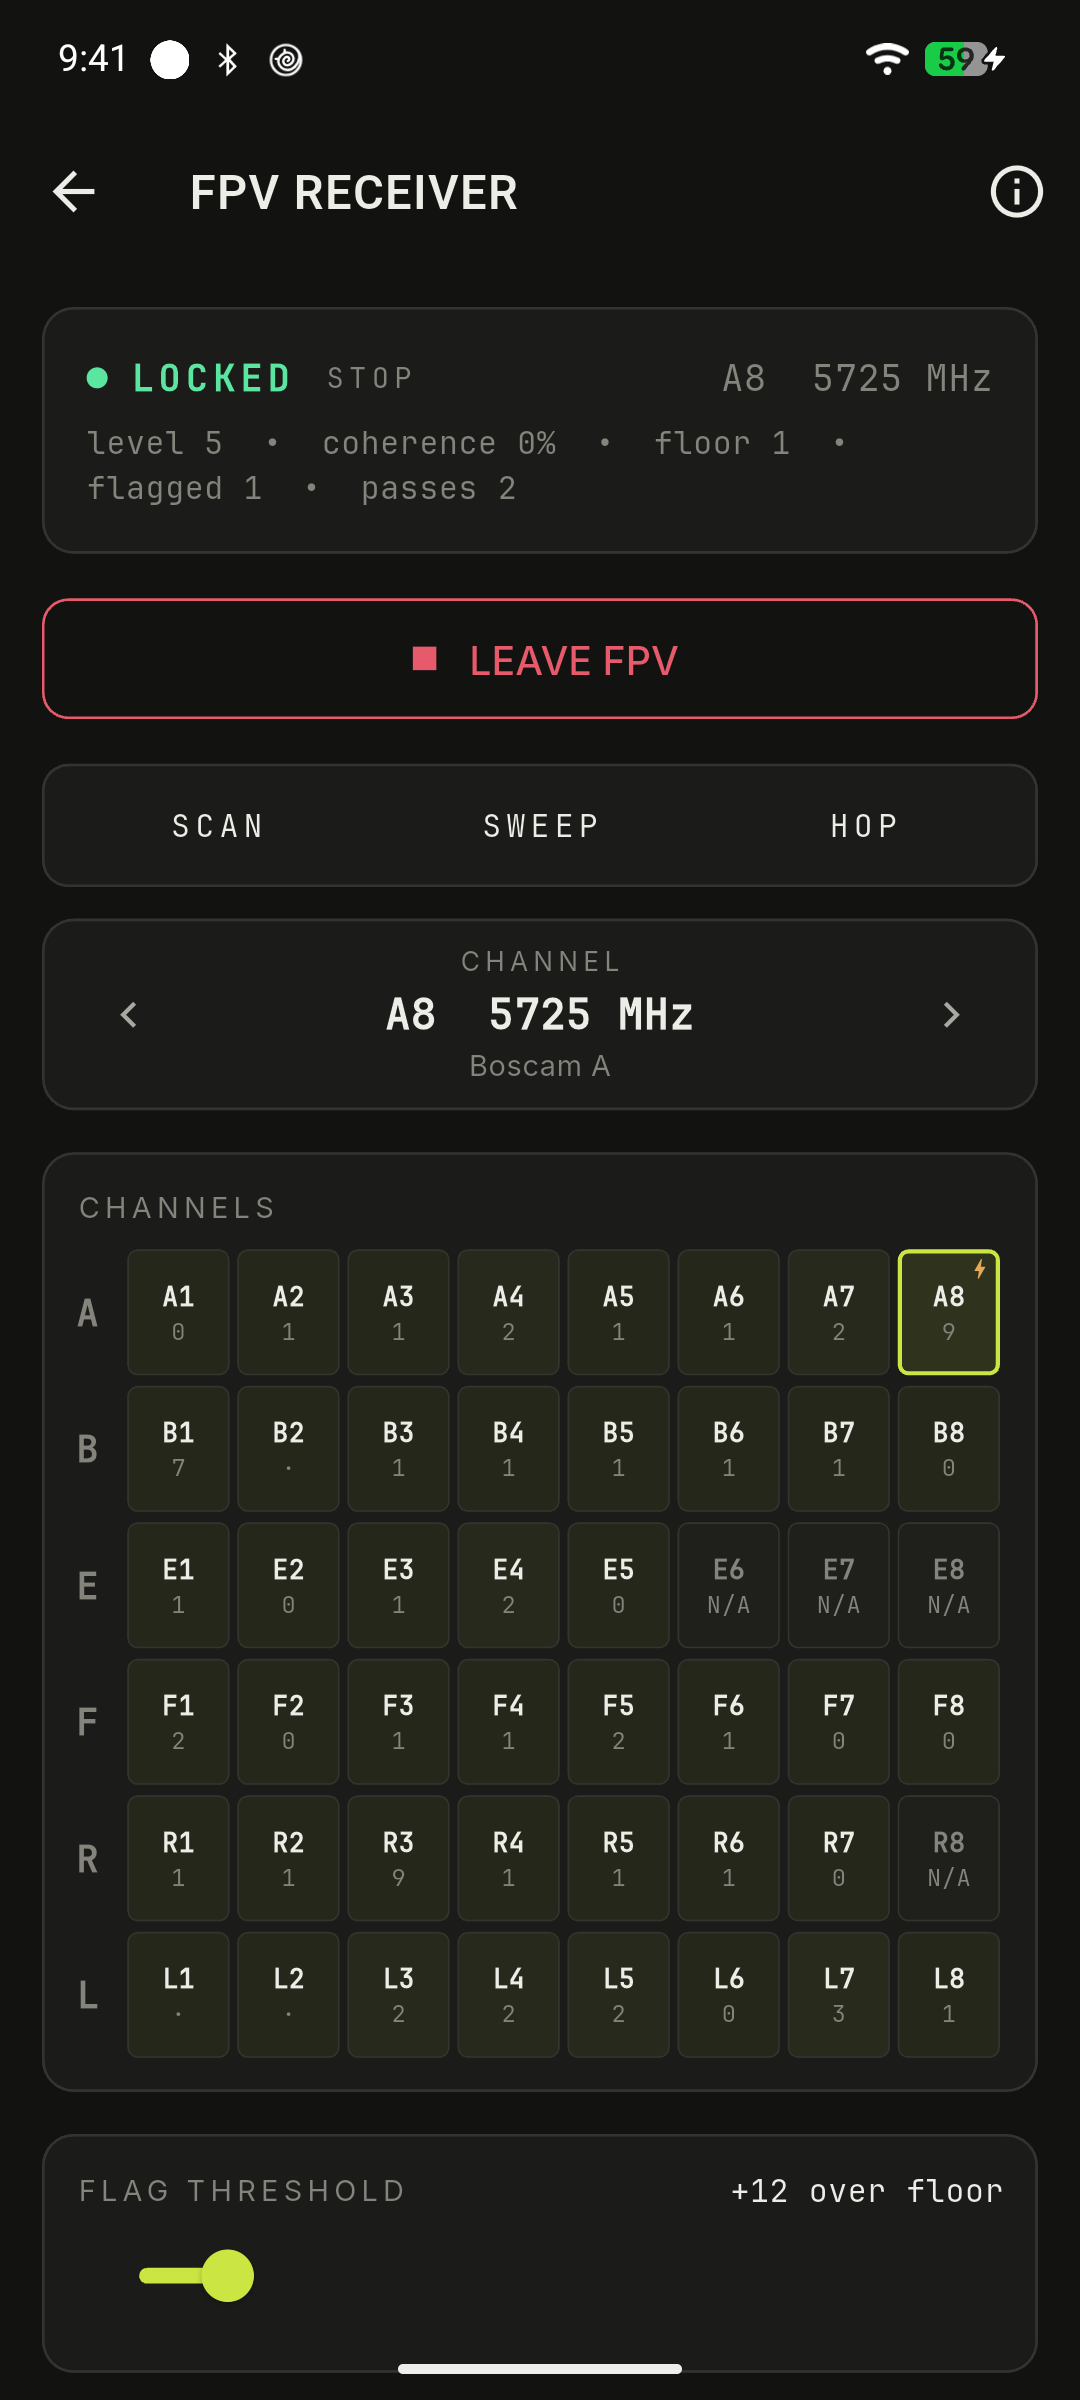
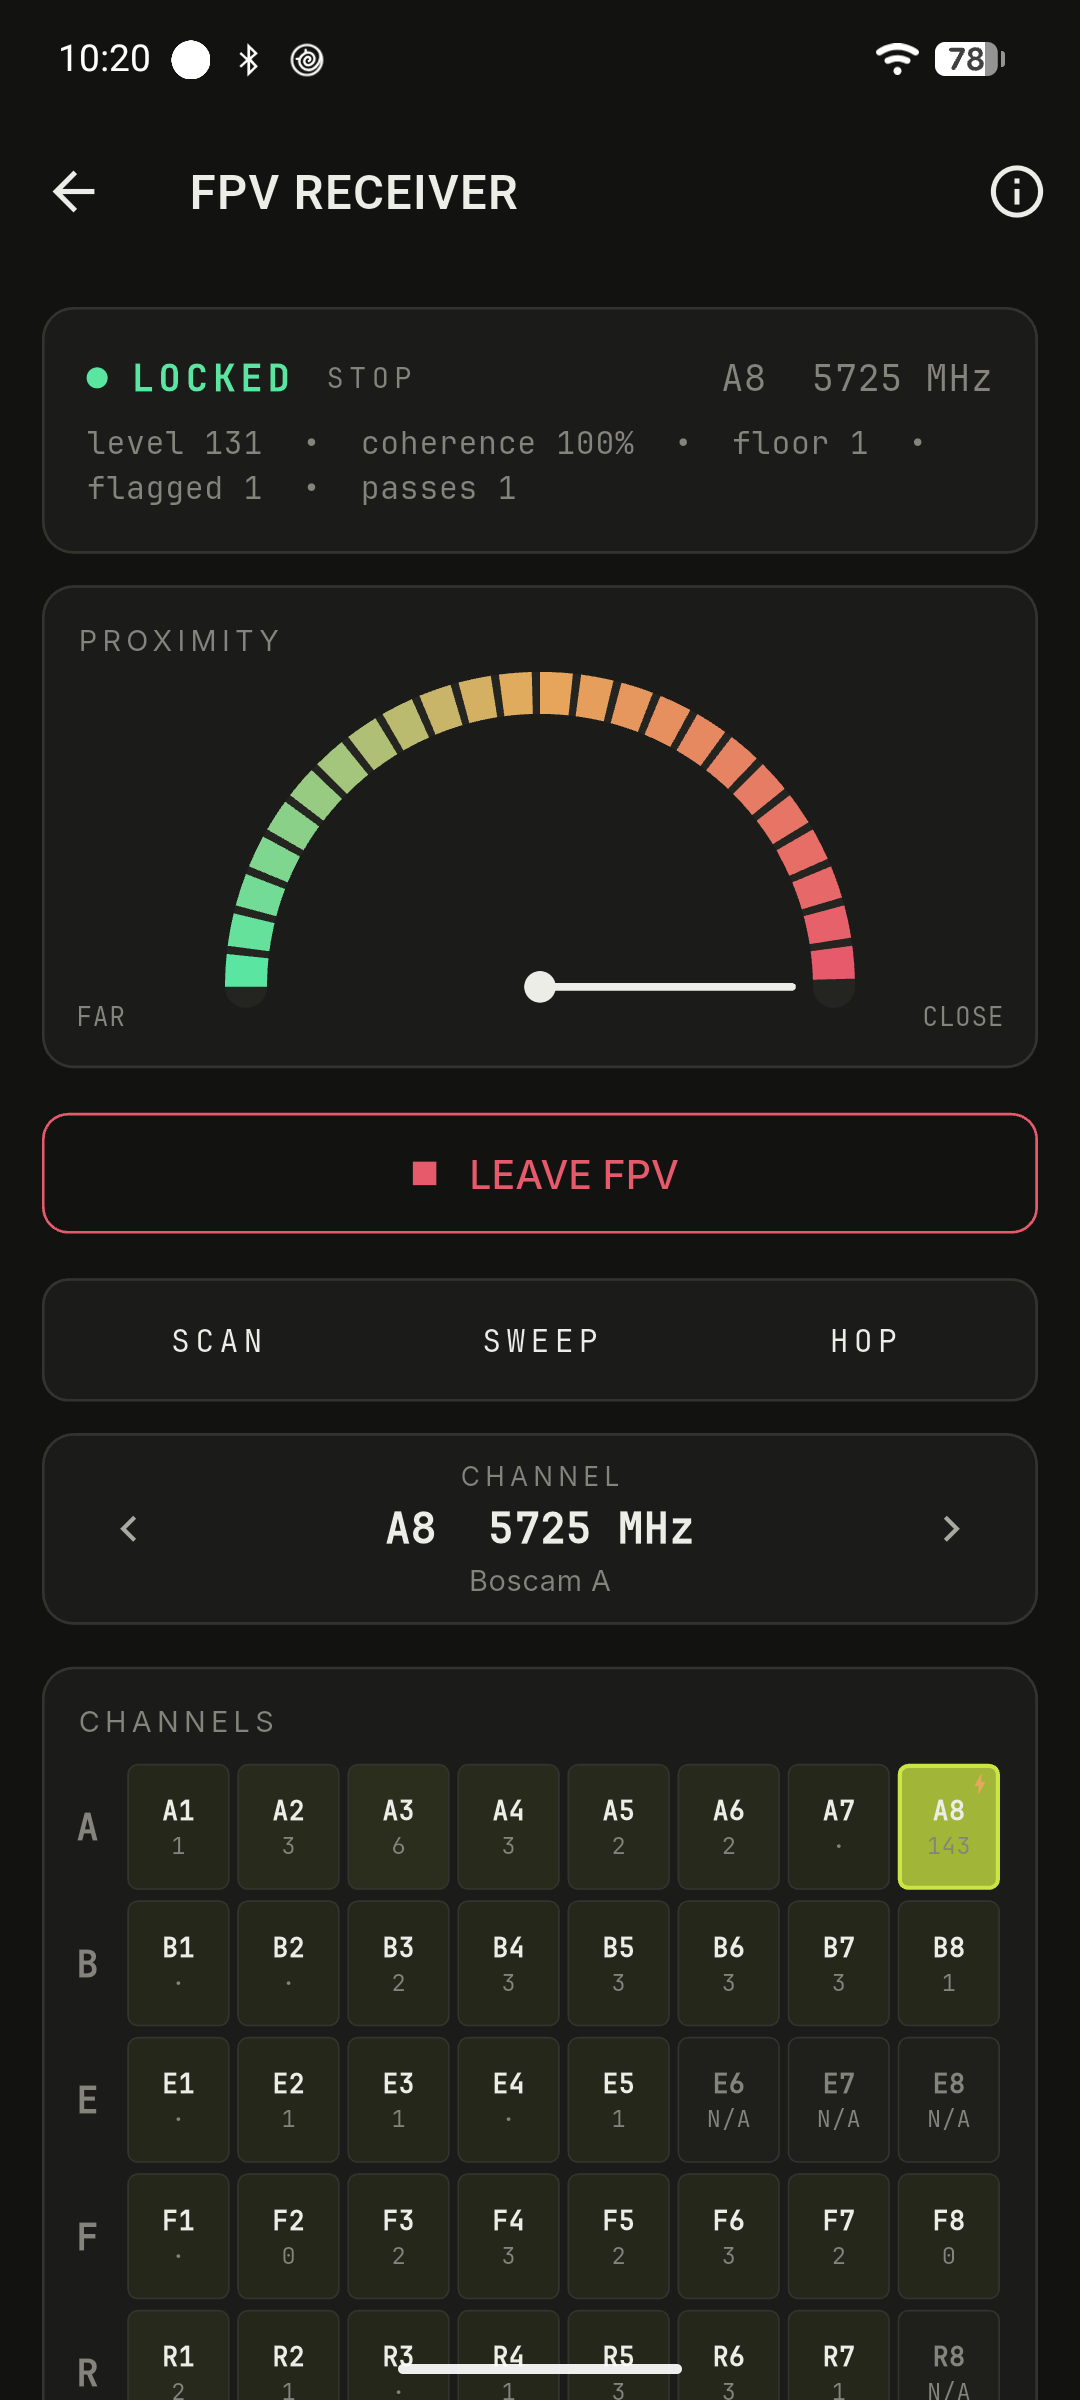
docs: v0.7.0 release notes, gauge shot

diff --git a/docs/release-notes/v0.7.0.md b/docs/release-notes/v0.7.0.md
@@ -1,0 +1,51 @@
+# OUI-APEX v0.7.0
+
+App 0.7.0, firmware 0.7.0. This release brings over the features of the OUI SPY Recon app, adds an FPV receiver for the XIAO ESP32-C5, and makes the mesh sturdier. Update the boards and the app together.
+
+<img width="300" src="../screenshots/ui/fpv-receiver.png" alt="FPV receiver locked on A8 with the proximity gauge near CLOSE" />
+
+## New
+
+- **FPV receiver (XIAO ESP32-C5):** finds analog 5.8 GHz FPV video transmitters on 44 of the 48 standard channels. **SCAN** stops on the strongest transmitter, **SWEEP** keeps the channel grid live and **HOP** visits flagged channels. A proximity gauge swings from FAR to CLOSE as you get nearer. A transmitter only lights its own channel: neighbors within 19 MHz that pick up its bleed stay dark. Flagged transmitters show up in the Drones list under the **FPV** chip. Receive only, no picture.
+- **Drones:** a page per drone with a saved name, tag and notes, a 90-day report log with CSV and KML export, a **Remote ID** or **FPV** filter, and **Follow** on the map.
+- **Alerts:** alert zones on the map, re-arm after a quiet period, alerts when a node goes down or comes back, and **Silence all**.
+- **Search:** one search box across detections, drones, alerts and nodes, with counts that wrap on narrow screens.
+- **Devices:** name, group and notes on any device, a single-device export, and **Alert when a board hears it**, which adds the device to the boards' watchlist and can be undone.
+- **Map:** pins, a measure tool, offline map areas (OpenFreeMap and USGS), and triangulation of a device heard by three placed nodes (off by default).
+- **Assistant:** a language model (Ollama, Claude, OpenAI or Gemini) can read what the app has seen and act within grants you switch on. Automatic alert lookups and scheduled reports are both off by default.
+- **Meshtastic radio:** pair the phone's own Meshtastic radio over Bluetooth, pick a private channel, and send a message or your position by LoRa.
+- **Home dashboard link:** connect the app to `tools/home-dashboard` and manage its connectors, including the dashboard's Meshtastic radio.
+- **ATAK:** catches and Remote ID drones as CoT map markers over UDP.
+- **Probe intel**, a **rule builder** with node presets, and the **AXEOFF** and **BLE Sniff** engines.
+- **Signed self-update** for the app, and **firmware over the mesh**: pick nodes and send each one a build.
+
+<table>
+  <tr>
+    <td width="50%" valign="top"><img width="260" src="../screenshots/ui/fleet-metrics.png" alt="Fleet metrics, Detections view" /><br><sub><b>Fleet metrics</b></sub></td>
+    <td width="50%" valign="top"><img width="260" src="../screenshots/ui/assistant-settings.png" alt="Assistant settings" /><br><sub><b>Assistant</b> settings</sub></td>
+  </tr>
+  <tr>
+    <td width="50%" valign="top"><img width="260" src="../screenshots/ui/mesh-channel.png" alt="Mesh channel move" /><br><sub>Mesh <b>Channel</b></sub></td>
+    <td width="50%" valign="top"><img width="260" src="../screenshots/ui/meshtastic-radio.png" alt="Meshtastic radio connected" /><br><sub><b>Meshtastic radio</b></sub></td>
+  </tr>
+</table>
+
+## Mesh
+
+- **Channel move:** move the whole mesh to channel 1 to 11 from the app. The manager asks every node to confirm, then all switch together. A node that misses the move finds the fleet again on its own.
+- **Fleet control:** identify, read or reboot every node, and see each node's build, filters, uptime, peers and temperature.
+- **Fleet metrics:** detections, wardrive and drone views per hour, day, week or month, for all nodes or one.
+- **Signal:** how strongly each node hears the others, one row per direction.
+- **Delivery:** nodes send wardrive batches straight to the manager instead of broadcasting them, so far fewer records are lost.
+
+## Pairing
+
+- Boards pair with a PIN. The Connect screen shows the default PIN, 123456, next to a board that still uses it, and the app asks you to set your own after the first pairing.
+- Re-pairing after **Forget** works on the first try.
+
+## Fixes
+
+- XIAO ESP32-C5: out-of-memory errors on ESP-NOW, a lockup when the mesh channel changed, and the FPV task running while unused.
+- Stat tiles and count strips wrap instead of cutting off their labels.
+- The Meshtastic radio list shows only Meshtastic radios.
+- Explanations on settings pages moved behind ⓘ buttons.
